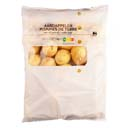
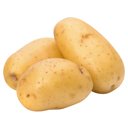
feat(recipe): autocomplete ingredient name; extend item photos
- RecipeIngredientFormSlideIn: ItemNameAutocomplete for ingredient name.
- Add many item JPGs (batteries, frozen fruit, toiletries, spirits, etc.).
- Refresh several existing item thumbnails.

Made-with: Cursor

diff --git a/src/components/recipe_ingredient_form_slide_in.tsx b/src/components/recipe_ingredient_form_slide_in.tsx
@@ -4,6 +4,7 @@ import * as React from "react";
 import { SlideInModal } from "@/components/ui/slide_in_modal";
 import { InputField } from "@/components/ui/input_field";
 import { Stepper } from "@/components/ui/stepper";
+import { ItemNameAutocomplete } from "@/components/ui/item_name_autocomplete";
 import { Button } from "@/components/ui/button";
 import { parseRecipeIngredientQuantity } from "@/lib/recipe_ingredient_quantity";
 
@@ -99,11 +100,11 @@ export function RecipeIngredientFormSlideIn({
       }
     >
       <div className="flex flex-col gap-6">
-        <InputField
+        <ItemNameAutocomplete
           label="Naam ingrediënt"
           placeholder="Naam ingrediënt"
           value={ingName}
-          onChange={(e) => setIngName(e.target.value)}
+          onChange={setIngName}
         />
         <div className="flex flex-col gap-2">
           <Stepper
